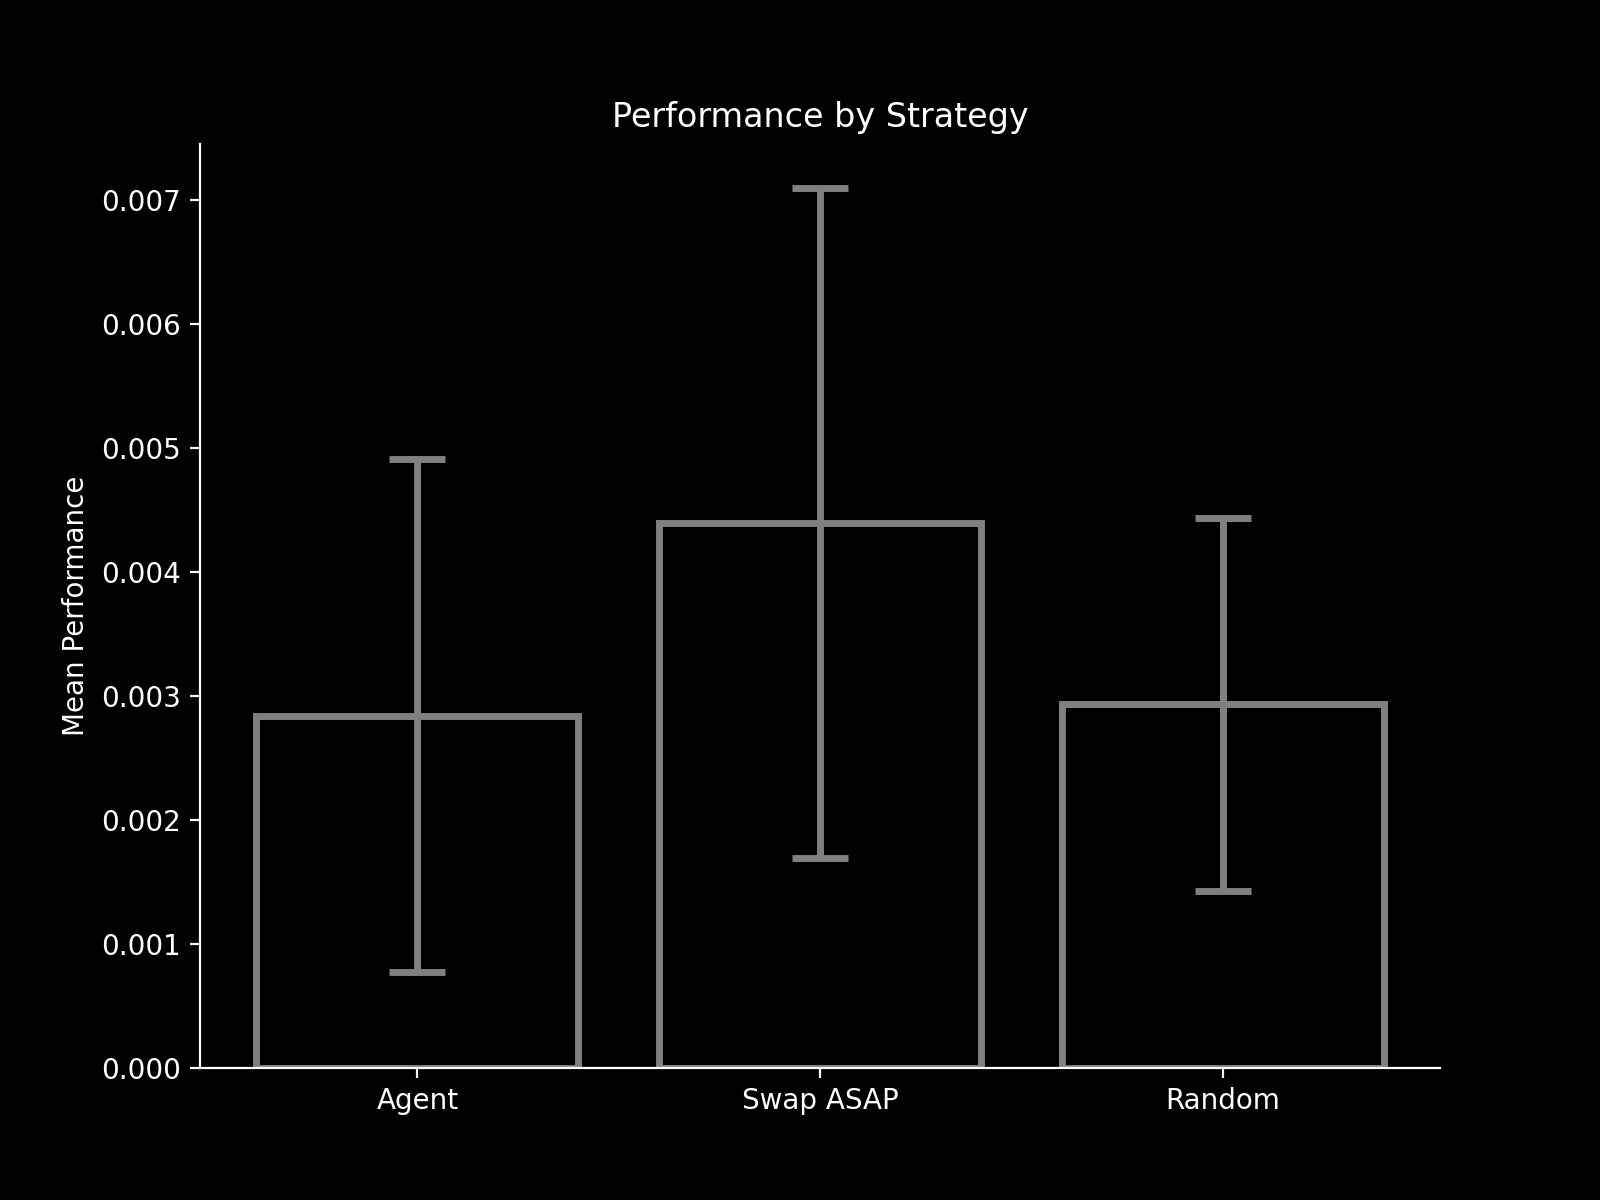
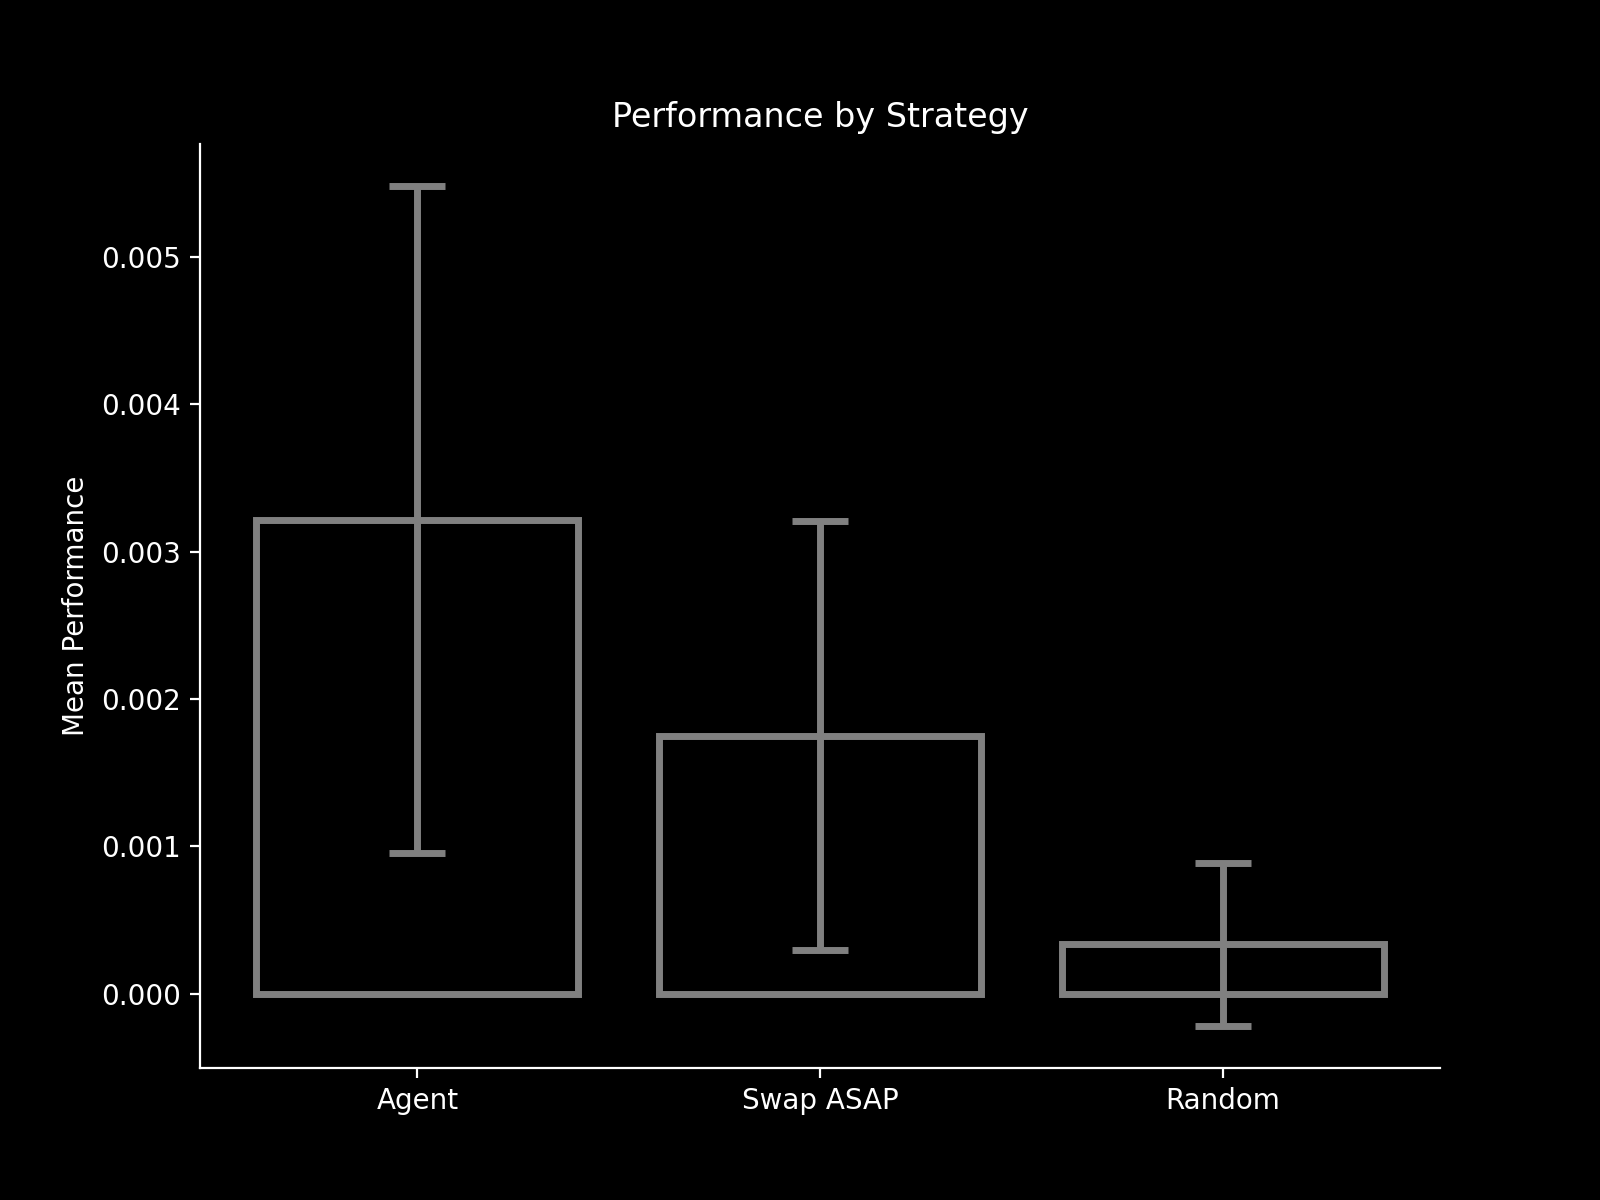
minor changes

diff --git a/src/agent.py b/src/agent.py
@@ -150,15 +150,15 @@ class AgentGNN(RepeaterNetwork):
       state = self.get_state_vector()
       action = self.choose_action()
       reward = self.update_environment(action)
-      # print(f'action: {action}({self.new_actions()[action][5:]}), reward: {reward}')
       next_state = self.get_state_vector()
 
       # Forward pass (preserve gradients)
       q_values = self.model(state).flatten()  # Shape: [2*num_nodes]
       q_value = q_values[action]    # gradient-friendly indexing
+      # DEBUGGING
+      # print(f'action: {action}({self.new_actions()[action][5:]}), reward: {reward}')
       # print(f'q_val: {q_value}')
-
-    #   print(f'Edge attr :{state.edge_attr}, Action: {self.new_actions()[action][5:]}, qval:{q_value:.3f}')
+      #print(f'Edge attr :{state.edge_attr}, Action: {self.new_actions()[action][5:]}, qval:{q_value:.3f}')
       # Target computation
       with torch.no_grad():
           next_q_values = self.target_model(next_state).flatten()
@@ -185,17 +185,14 @@ class AgentGNN(RepeaterNetwork):
       entanglementDegree = np.mean(linkList) /self.n
       entanglementlist.append(entanglementDegree)
 
-      win = self.endToEndCheck()
-      if win:
+      wincon = self.endToEndCheck()
+      if wincon:
         links_established +=1
         self.reset()
 
 
     if plot:
       print(f'Total links established = {links_established}')
-      # plt.axline((0,1),slope=0, ls='--')
-      # plt.plot(fidelityList, ls=':', label='Total Fidelity')
-      # plt.plot(entanglementlist, ls='-', label=r'Entanglement per node')
       plt.plot(lossList, ls='-', label='Loss')
       plt.plot(rewardList,ls='-', label='Cummulative reward')
       plt.title(f'Training metrics over {episodes} steps')
@@ -203,21 +200,11 @@ class AgentGNN(RepeaterNetwork):
       plt.ylabel(f'Reward for $(n, p_E, p_S)$= {self.n, self.p_entangle, self.p_swap}')
       plt.yscale("symlog")
       plt.legend()
-      # plt.savefig('logs/plots/GNN_train_plot.png')
       plt.savefig('assets/train.png') if savefig else None
       plt.close()
 
-    self.saveModel() if save_model else None
+    torch.save(self.model.state_dict(), 'assets/gnn_model.pth') if save_model else None
     return rewardList, links_established
-
-  def saveModel(self, dir= 'assets/gnn_model.pth'):
-    """Saves the model"""
-    torch.save(self.model.state_dict(), dir)
-    print(f"Model saved to {dir}")
-
-  def trained_action(self) -> int:
-    """Returns the action with the highest Q-value"""
-    return self.choose_action(use_trained_model=True)
 
   
   def test(self, 
@@ -230,7 +217,11 @@ class AgentGNN(RepeaterNetwork):
            verbose=False, 
            kind='trained') -> list:
     
-    """Perform the validation of the agent against the heuristic strategies"""
+    """
+    
+    Perform the validation of the agent against the heuristic strategies
+    
+    """
     super().__init__(n=n_test, tau=tau, cutoff=cutoff, p_entangle=p_entangle, p_swap=p_swap)
     totalReward, rewardList = 0, []
     fidelity, fidelityList = 0,[]
@@ -244,56 +235,22 @@ class AgentGNN(RepeaterNetwork):
 
       # allow for self.n actions per round for normalization
       if kind=='trained':
-        for _ in range(self.n**2):
-          action = self.trained_action()
+        for _ in range(self.n):
+          action = self.choose_action(use_trained_model=True)
           reward += self.update_environment(action)
       elif kind=='swap_asap':
-        for _ in range(self.n**2):
+        for _ in range(self.n):
           action = strategies.random_swap_asap()
           exec(action)
           reward += self.reward()
       elif kind=='random':
-        for _ in range(self.n**2):
+        for _ in range(self.n):
           action = strategies.stochastic_action()
           exec(action)
           reward += self.reward()
       
       links_established +=1 if self.endToEndCheck() else 0
       self.reset() if self.endToEndCheck() else None
-
-
-      # if kind == 'trained':
-      #   for _ in range(self.n):
-      #     action = self.trained_action()
-      #     reward += self.update_environment(action)
-      #     links_established +=1 if self.endToEndCheck() else 0
-      #     self.reset() if self.endToEndCheck() else None
-
-      # elif kind == 'random':
-      #   actions = strategies.random_action()
-      #   for action in actions:
-      #     exec(action)
-      #     reward += self.reward()
-      #     links_established +=1 if self.endToEndCheck() else 0
-      #     self.reset() if self.endToEndCheck() else None
-
-      # elif kind == 'swap_asap':
-      #   actions = strategies.swap_asap()
-      #   for action in actions:
-      #     exec(action)
-      #     reward += self.reward()
-      #     links_established +=1 if self.endToEndCheck() else 0
-      #     self.reset() if self.endToEndCheck() else None
-
-
-      # elif kind == 'alternating':
-      #   actions = strategies.alternating_action(step)
-      #   for action in actions:
-      #     exec(action)
-      #     reward += self.reward()
-      #     links_established +=1 if self.endToEndCheck() else 0
-      #     self.reset() if self.endToEndCheck() else None
-
       print(f"Round: {step}, Reward: {reward:.3f}") if verbose else None
       totalReward += reward
       rewardList.append(totalReward)

diff --git a/src/main.py b/src/main.py
@@ -22,15 +22,15 @@ if __name__ == '__main__':
 	agent = AgentGNN(n=4, 
 					cutoff = 1000,
 					tau=1000,
-					p_entangle=.3, 
+					p_entangle=0.3, 
 					p_swap=0.85)
 
 	#Train ONCE to use for testing (also save the model)
-	agent.train(episodes=30_000, plot=True, save_model=False)
+	agent.train(episodes=10_000, plot=True, save_model=False)
 
 	# Now gather validation statistics
 	test_stats(agent=agent, 
-			experiments=5, 
+			experiments=2, 
 			n_test = 6, 
 			p_entangle=0.3, 
 			p_swap=0.85, 

diff --git a/src/stats.py b/src/stats.py
@@ -61,9 +61,9 @@ def test_stats(agent,
   }
 
   for _ in tqdm(range(experiments)):
-    rt, _, lt = agent.test(**params, kind='trained',);
-    rs, _, ls = agent.test(**params, kind='swap_asap');
-    rr, _, lr = agent.test(**params, kind='random');
+    _, _, lt = agent.test(**params, kind='trained',);
+    _, _, ls = agent.test(**params, kind='swap_asap');
+    _, _, lr = agent.test(**params, kind='random');
 
     t_mean.append(lt)
     s_mean.append(ls)
